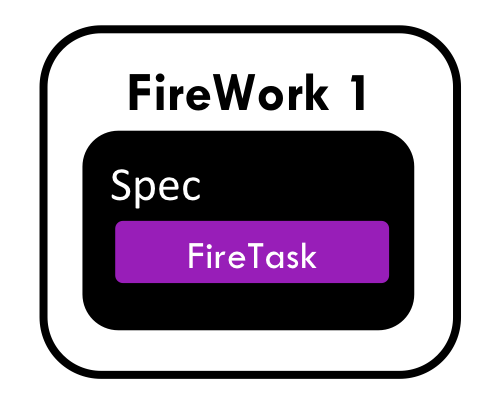
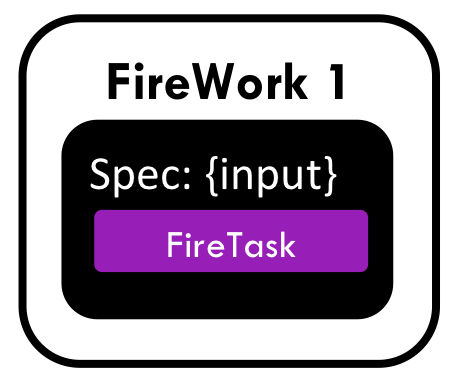
doc updates

Changed region(s): [[0.0306, 0.0289, 0.9782, 0.9842]]

diff --git a/fireworks/__init__.py b/fireworks/__init__.py
@@ -1,4 +1,4 @@
 import os
 
-__version__ = '0.16'
+__version__ = '0.17'
 FW_INSTALL_DIR = os.path.dirname(os.path.abspath(__file__))

diff --git a/docs/nutshell.rst b/docs/nutshell.rst
@@ -20,7 +20,9 @@ The basic infrastructure looks like this:
    :align: center
    :alt: FireWorks Model
 
-The components are largely decoupled, which makes installation of FireWorks straightforward. You can manage the LaunchPad (for example add new workflows) without interfering with the running operation of the FireWorkers. Similarly, if one of the FireWorkers has a failure, it won't affect the operation of the LaunchPad. Running on a heterogeneous set of worker computers is simple because essentially the same code is used for running on a simple workstation versus a large supercomputing center; no modifications to the LaunchPad code is needed to support additional FireWorker types.
+The components are largely decoupled, which makes FireWorks easier to use. End users can add new workflows to the LaunchPad without worrying about the details of how and where the workflows will be run (unless they really want to tailor the details of job execution). This keeps the workflow specifications lightweight, tidy, and easy to learn and use (if you've ever seen lengthy XML-based specifications in other workflow software, you'll notice the difference in FireWorks right away).
+
+On the opposite end, administrators can configure worker computers without worrying about where workflows are coming from or what they look like (although you can easily and flexibly assign jobs to certain resources if desired). Running on a heterogeneous set of worker computers is simple because essentially the same code is used internally by FireWorks for running on a simple workstation versus a large supercomputing center.
 
 .. _wfmodel-label:
 
@@ -29,7 +31,7 @@ Workflow Model
 
 Workflows in FireWorks are made up of three main components:
 
-* A **FireTask** is an atomic computing job. It can call a single shell script or execute a single Python function that you define (either within FireWorks, or in an external package).
+* A **FireTask** is an atomic computing job. It can call a single shell script or execute a single Python function that you define (either within FireWorks, or in an external package). Each FireTask receives input data in the form of a JSON specification.
 * A **FireWork** contains a *spec* that includes all the information needed to bootstrap your job. For example, the spec contains an array of FireTasks to execute in sequence. The spec also includes any input parameters to pass to your FireTasks. You can easily perform the same function over different input data by creating FireWorks with identical FireTasks but different specs. You can design your spec however you'd like, as long as it's valid JSON. This gives you a lot of flexibility in defining your input data.
 * A **Workflow** is a set of FireWorks with dependencies between them. For example, you might need a parent FireWork to finish and generate some output files before running two child FireWorks.
 

diff --git a/docs/todos.rst b/docs/todos.rst
@@ -14,6 +14,8 @@ FW Docs
     * _queueadapter - values of the QueueAdapter dict to override
     * _allow_fizzled_parents - continue on FIZZLED parents
 
+* Highlight the fact that the spec doesn't contain anything about run configuration (unless you want it to). Thus the person designing the spec or submitting jobs doesn't need to know anything about the resource it's running on. They can just set things that matter (like walltime or machine).
+
 * Show to use RocketLauncher to run a particular fw_id (probably in the priorities tutorial) (note, this is already implemented, just needs documentation)
 
 * Running different FireWorks on different resouces (FWorker category, FWorker query)

diff --git a/docs/changelog.rst b/docs/changelog.rst
@@ -2,6 +2,13 @@
 FireWorks Changelog
 ===================
 
+v0.17
+=====
+
+* minor update to ping()
+* major docs reorganization and updates
+* document and better support 'pip' installation
+
 v0.16
 =====
 
